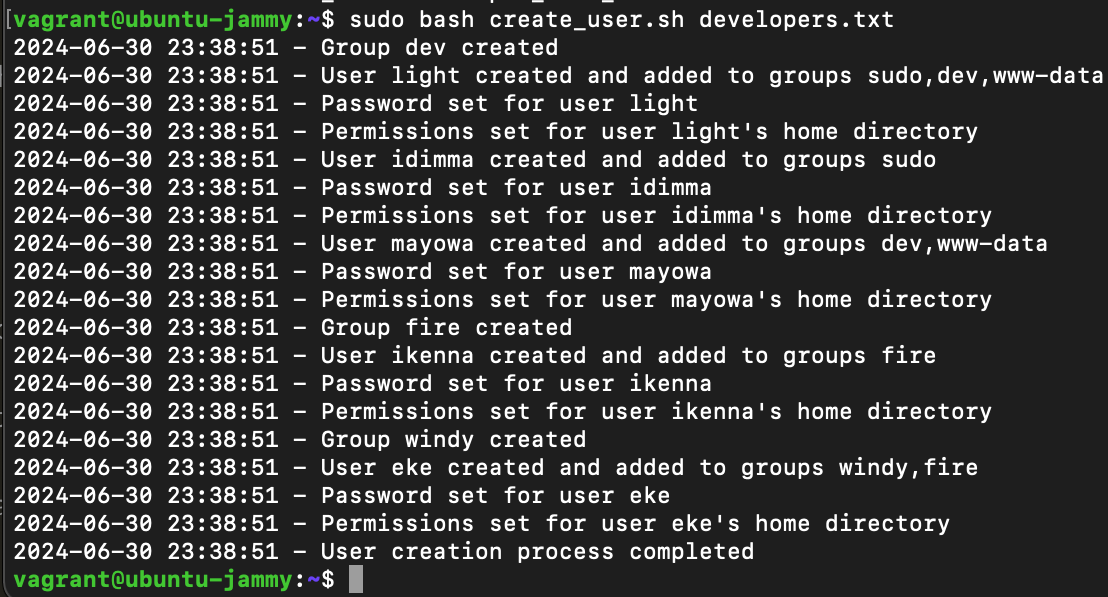
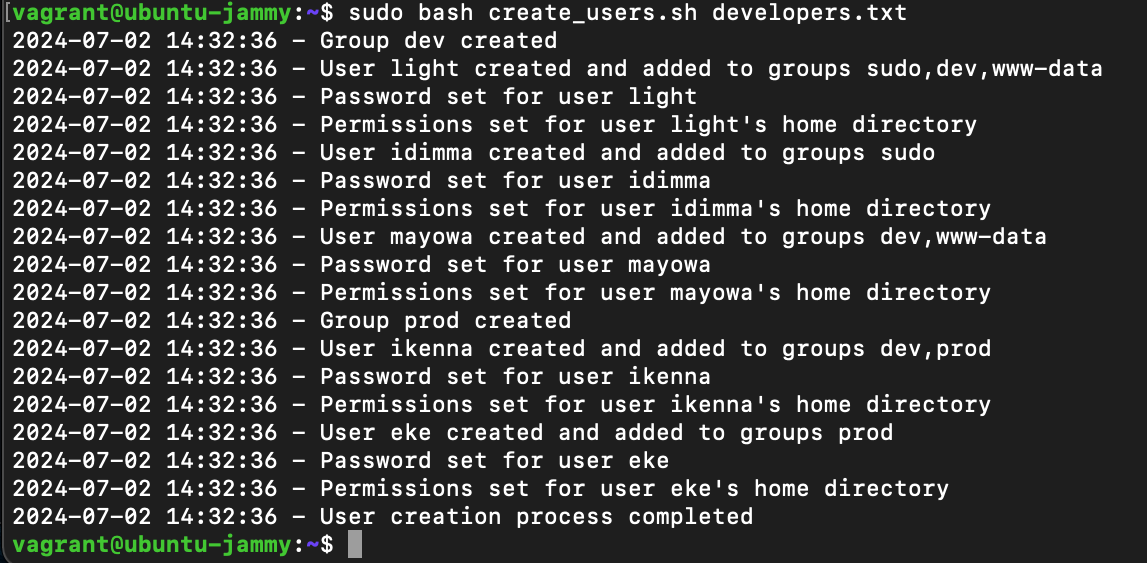
updates

Changed region(s): [[0.0, 0.0, 1.0, 1.0]]

diff --git a/Stage-1/README.md b/Stage-1/README.md
@@ -24,9 +24,9 @@ This project is based on writing a bash script called `create_users.sh` that rea
 
 Checkout the [create_users.sh](./create_user.sh) script here.
 
-## The Breakdown Of The `create_user.sh` Script
+## The Breakdown Of The `create_users.sh` Script
 
-The following is a detailed breakdown of the `create_user.sh` script:
+The following is a detailed breakdown of the `create_users.sh` script:
 
 #### 1. Superuser Privileges Check
 
@@ -194,126 +194,15 @@ This sets `rwx` permissions, user and group ownership to the user's home directo
 
 ## Implementation Of The Linux User Creation Bash Script
 
-Log into your Ubuntu server and take the following steps to create and verify the functionality of the `create_user.sh` script:
+Log into your Ubuntu server and take the following steps to create and verify the functionality of the `create_users.sh` script:
 
-1. Create the `create_user.sh` script using the following command.
+1. Create the `create_users.sh` then copy and paste the content of this [file](https://github.com/ekedonald/Linux-User-Creation-Bash-Script/blob/main/create_users.sh) into the script.
 
-```sh
-cat <<EOF | tee create_user.sh
-#!/bin/bash
 
-# Ensure the script is run with superuser privileges
-if [[ $EUID -ne 0 ]]; then
-    echo "This script must be run as root. Use sudo."
-    exit 1
-fi
-
-# Check if the input file is provided
-if [ -z "$1" ]; then
-    echo "No input file provided"
-    echo "Hint: sudo bash create_user.sh <input_file_>"
-    exit 1
-fi
-
-input_file="$1"
-log_file="/var/log/user_management.log"
-password_file="/var/secure/user_passwords.csv"
-
-# Create log and password files if they do not exist
-touch $log_file
-mkdir -p /var/secure
-touch $password_file
-chmod 600 $password_file
-
-# Function to log actions
-log_action() {
-    local message="$1"
-    echo "$(date '+%Y-%m-%d %H:%M:%S') - $message" | tee -a $log_file
-}
-
-# Function to generate a random password
-generate_password() {
-    tr -dc A-Za-z0-9 </dev/urandom | head -c 15
-}
-
-# Read the input file line by line
-while IFS=';' read -r raw_username raw_groups; do
-    # Remove whitespace
-    username=$(echo "$raw_username" | xargs)
-    groups=$(echo "$raw_groups" | xargs)
-
-    # Validate username and groups
-    if [ -z "$username" ]; then
-        log_action "Invalid or empty username found, skipping..."
-        continue
-    fi
-
-    if [ -z "$groups" ]; then
-        log_action "No groups specified for user $username, skipping..."
-        continue
-    fi
-
-    # Create groups if they do not exist
-    IFS=',' read -ra group_list <<< "$groups"
-    for group in "${group_list[@]}"; do
-        group=$(echo "$group" | xargs)  # Trim whitespace
-        if [ -z "$group" ]; then
-            log_action "Invalid or empty group name found for user $username, skipping..."
-            continue
-        fi
-
-        if ! getent group "$group" > /dev/null 2>&1; then
-            groupadd "$group"
-            if [ $? -eq 0 ]; then
-                log_action "Group $group created"
-            else
-                log_action "Failed to create group $group"
-                continue
-            fi
-        fi
-    done
-
-    # Create user if they do not exist
-    if ! id "$username" > /dev/null 2>&1; then
-        useradd -m -s /bin/bash -G "$groups" "$username"
-        if [ $? -eq 0 ]; then
-            log_action "User $username created and added to groups $groups"
-
-            # Generate and set password
-            password=$(generate_password)
-            echo "$username:$password" | chpasswd
-            if [ $? -eq 0 ]; then
-                log_action "Password set for user $username"
-
-                # Store the password securely
-                echo "$username:$password" >> $password_file
-            else
-                log_action "Failed to set password for user $username"
-            fi
-        else
-            log_action "Failed to create user $username"
-            continue
-        fi
-    else
-        log_action "User $username already exists"
-    fi
-
-    # Set appropriate permissions for the user's home directory
-    chmod 700 /home/"$username"
-    chown "$username:$username" /home/"$username"
-    log_action "Permissions set for user $username's home directory"
-done < "$input_file"
-
-log_action "User creation process completed"
-
-exit 0
-EOF
-```
-
-2. Assign executable permissions to the `create_user.sh` file.
+2. Assign executable permissions to the `create_users.sh` file.
 
 ```sh
-chmod +x create_user.sh
+chmod +x create_users.sh
 ```
 
 3. Create a file that contains the usernames and groups the employees belong to.
@@ -328,10 +217,10 @@ eke; prod
 EOF
 ```
 
-4. Run the `create_user.sh` script.
+4. Run the `create_users.sh` script.
 
 ```sh
-sudo bash create_user.sh developers.txt
+sudo bash create_users.sh developers.txt
 ```
 
 ![run script](./images/1%20run%20script.png)
@@ -368,4 +257,4 @@ groups light idimma mayowa
 
 ## Conclusion
 
-The `create_user.sh` script makes the management of users and groups seamless.
+The `create_user.sh` script makes the management of users and groups seamless. Hence, the onboarding process for new employees is swift and efficient.
